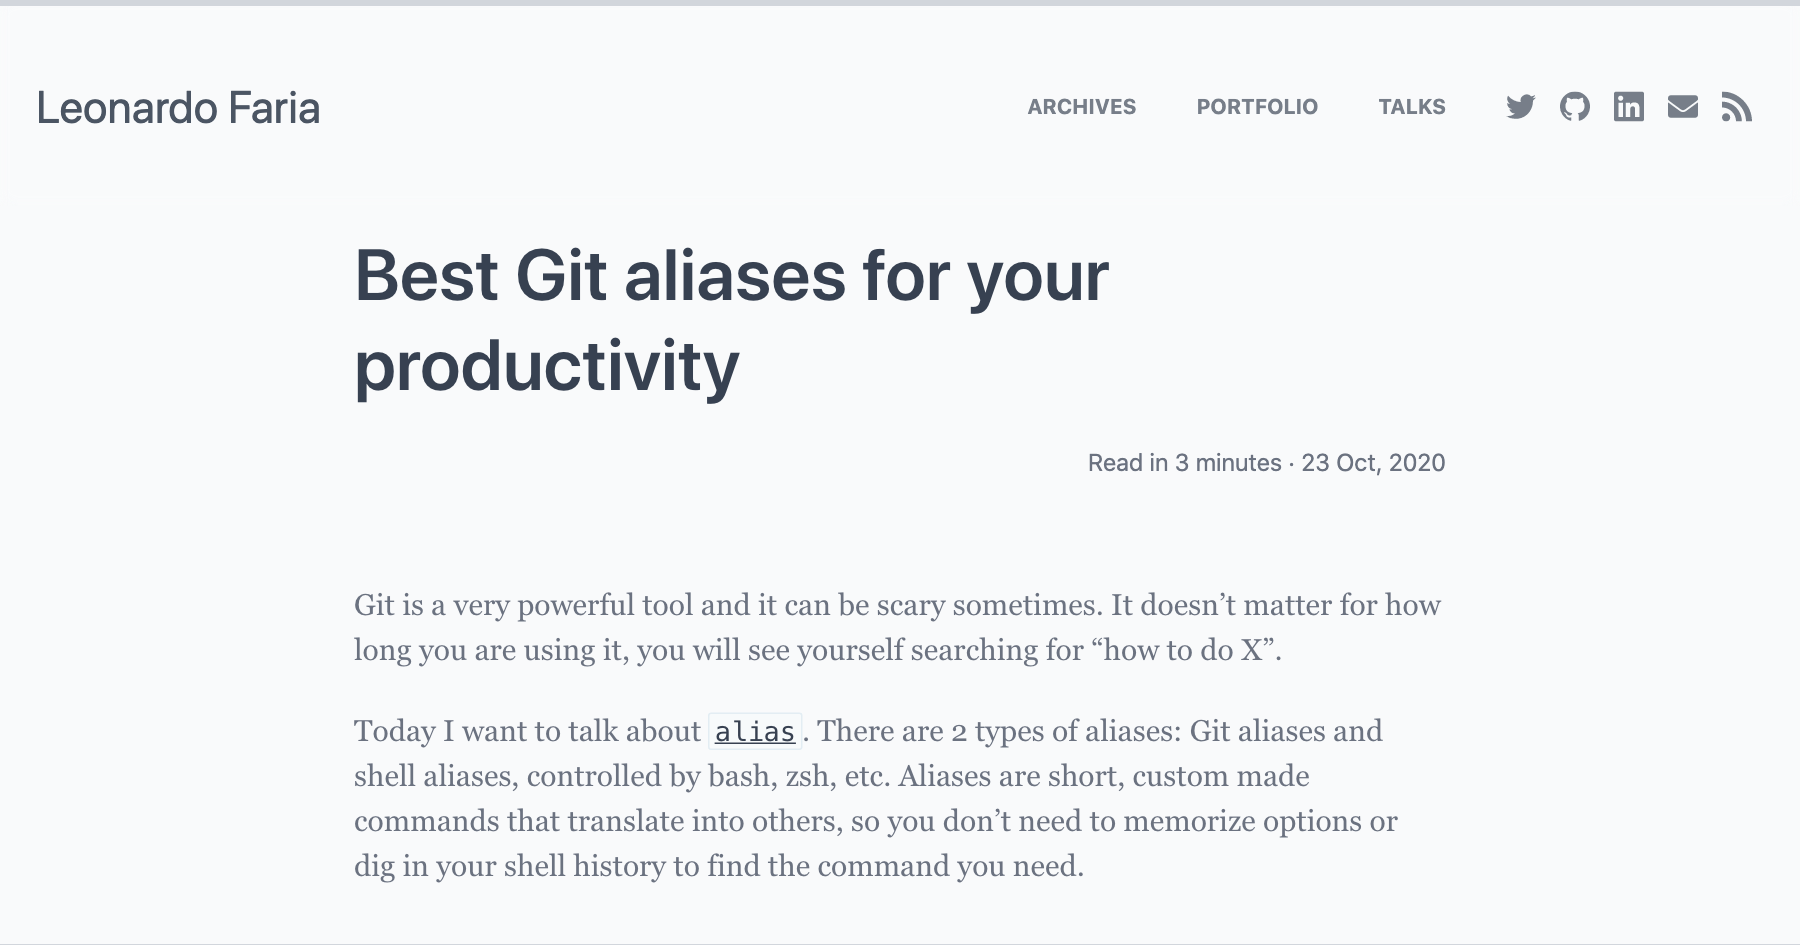
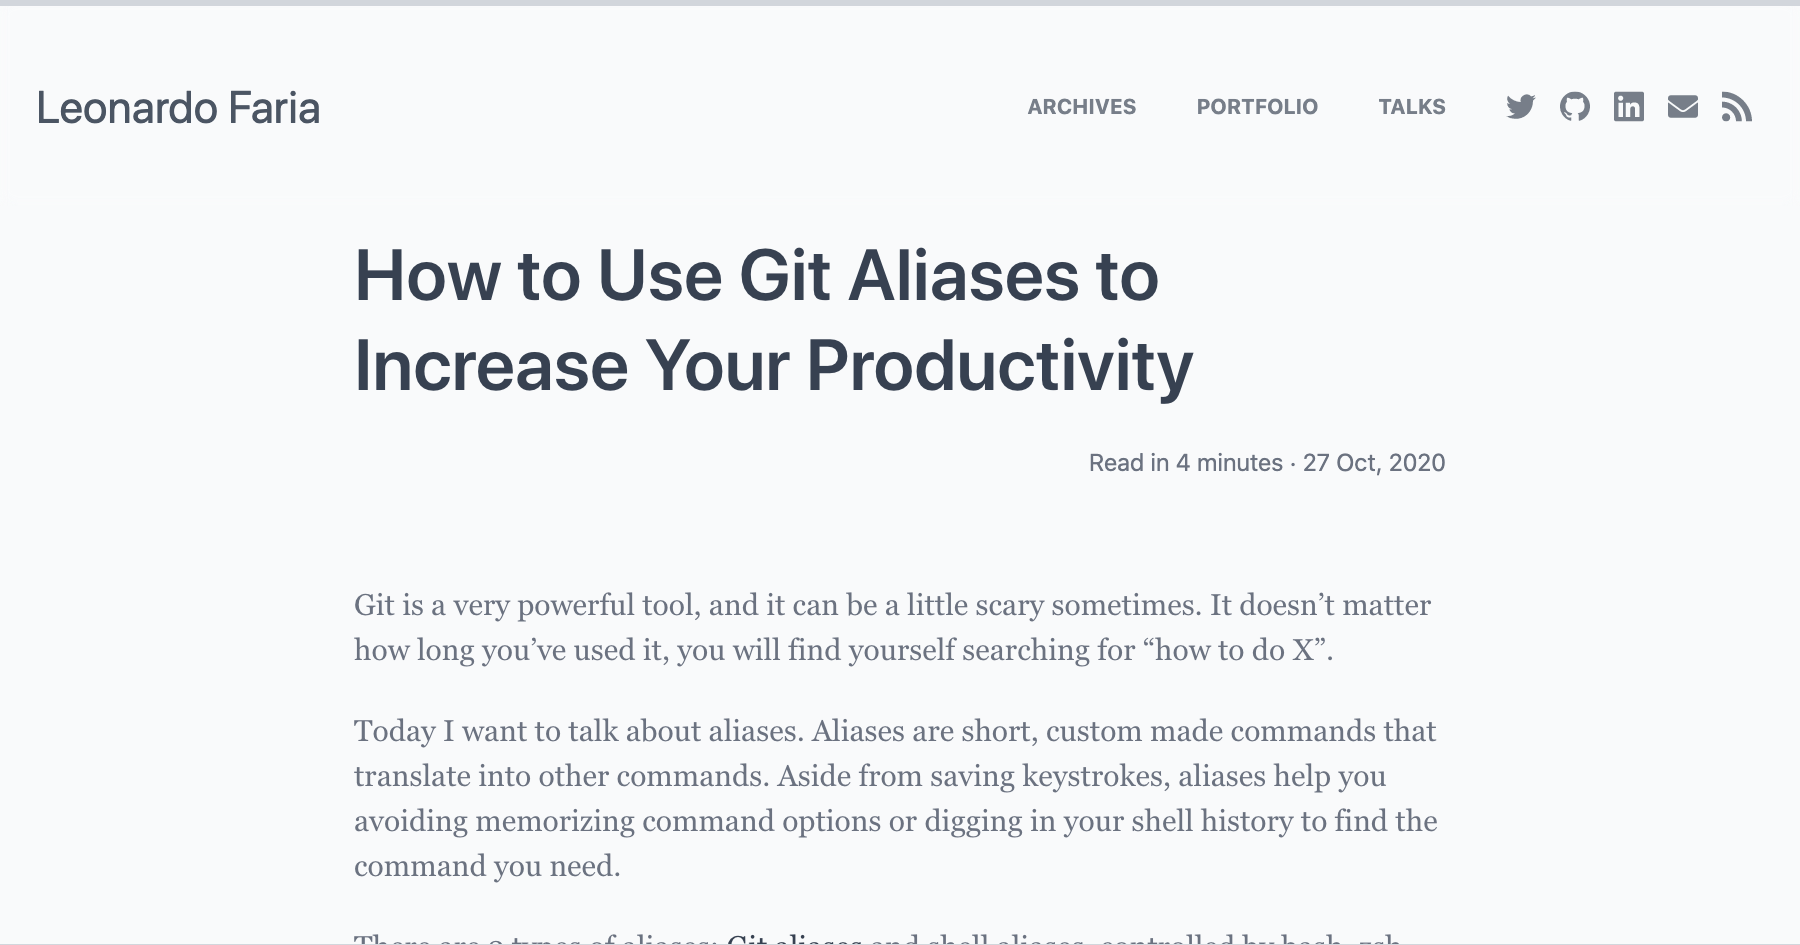
Edit final post

diff --git a/content/2020/10/27/how-to-use-git-aliases-to-increase-your-productivity.md b/content/2020/10/27/how-to-use-git-aliases-to-increase-your-productivity.md
@@ -1,10 +1,10 @@
 ---
 id: 2223
-title: Best Git aliases for your productivity
+title: How to Use Git Aliases to Increase Your Productivity
 date: 2020-10-27
 author: Leonardo Faria
 ogImage: /images/og-images/2223.png
-permalink: /2020/10/27/best-git-aliases-for-productivity
+permalink: /2020/10/27/how-to-use-git-aliases-to-increase-your-productivity
 categories:
   - git
 tags:
